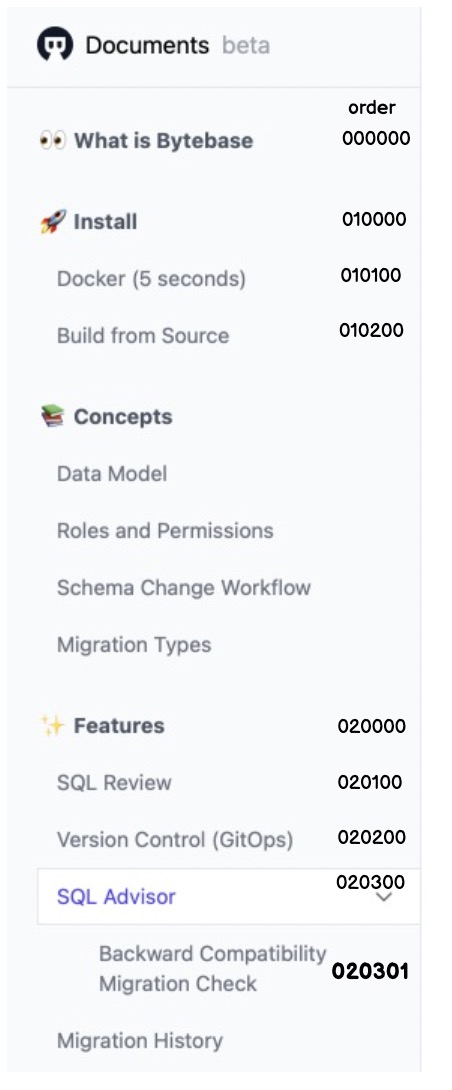
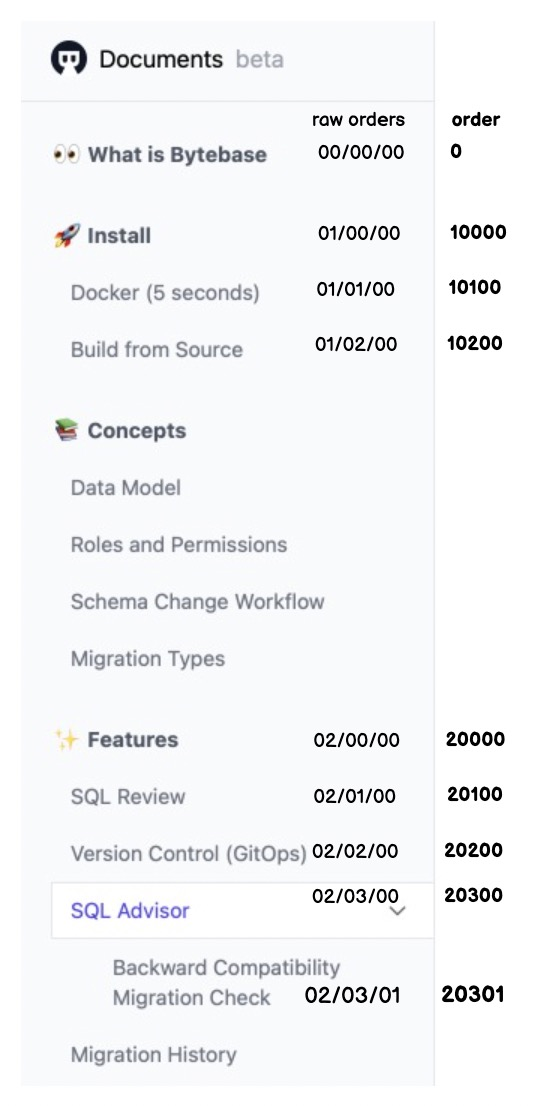
feat: update document write guide

diff --git a/docs/document-write-guide.md b/docs/document-write-guide.md
@@ -20,10 +20,12 @@ order: 40100
 Write the document content right here.
 ```
 
-It's a little different from a common Markdown file. We need to save its metadata between the `--- xxx ---` block. Typically used fields are:
+It's a little different from a common Markdown file. In order not to involve changes to code files, we need to save its metadata between the `--- xxx ---` block. Typically used fields are:
 
 - `title` is the display text in sidebar;
-- `order` indicates the display order. It consists of a array with three two-digit numbers: `{{category}}{{subcategory}}{{document}}`. For example, [Build from Source](/docs/install/build-from-source) is `10200`.
+- `order` indicates the display order. It is an integer representing an array of three two-digit numbers: `{{category}}{{subcategory}}{{document}}`. **We support up to three folder structure. And the sub-directory structure determines the hierarchy.**
+
+  For example, [Build from Source](/docs/install/build-from-source) is `10200` which can be `[1][2][0]`. This means that it's the second in the category, the third in the subcategory and the first in the leaf.
   ![corder-example](/docs-assets/order-example.jpg)
 
 ## How to write a new document?
@@ -32,7 +34,7 @@ It's a little different from a common Markdown file. We need to save its metadat
 2. Think about where the article should be displayed in sidebar.
 3. Follow the [example](#the-structure-of-md-file) to figure out the `order` value.
 4. Add the metadata block at the top of the markdown file.
-5. Put the file under the project folder `./docs/`.
+5. Refer to an existing structure, put the file under a folder of `./docs/`.
 6. Run `yarn dev` start the review server.
 7. Go to [localhost:3000/docs](http://localhost:3000/docs) and check your creation.
 8. If everything is fine, create a new PR with the changes to [our repo in GitHub](https://github.com/bytebase/bytebase.com).
